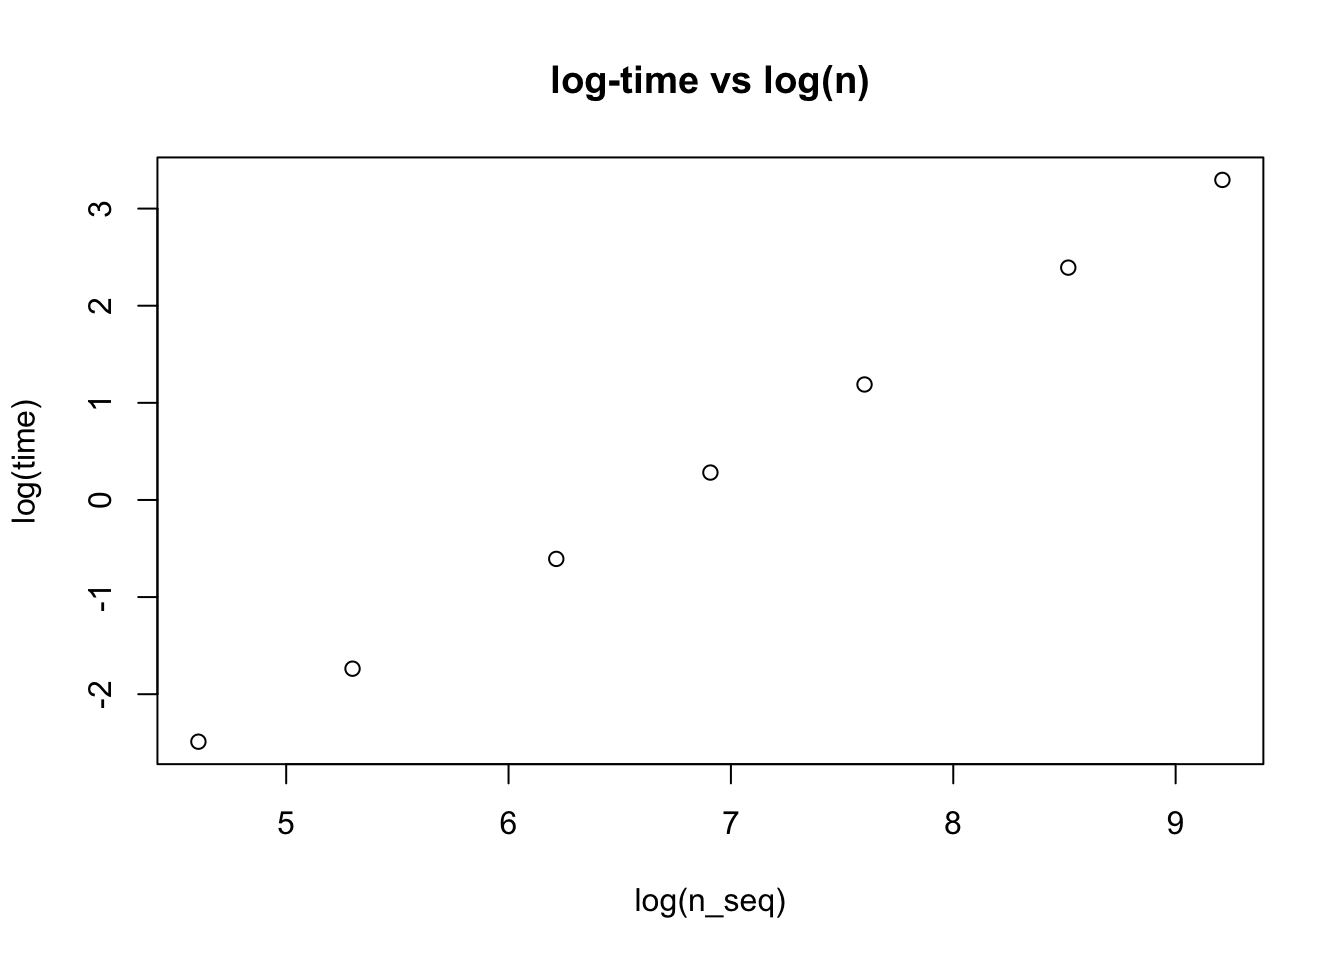
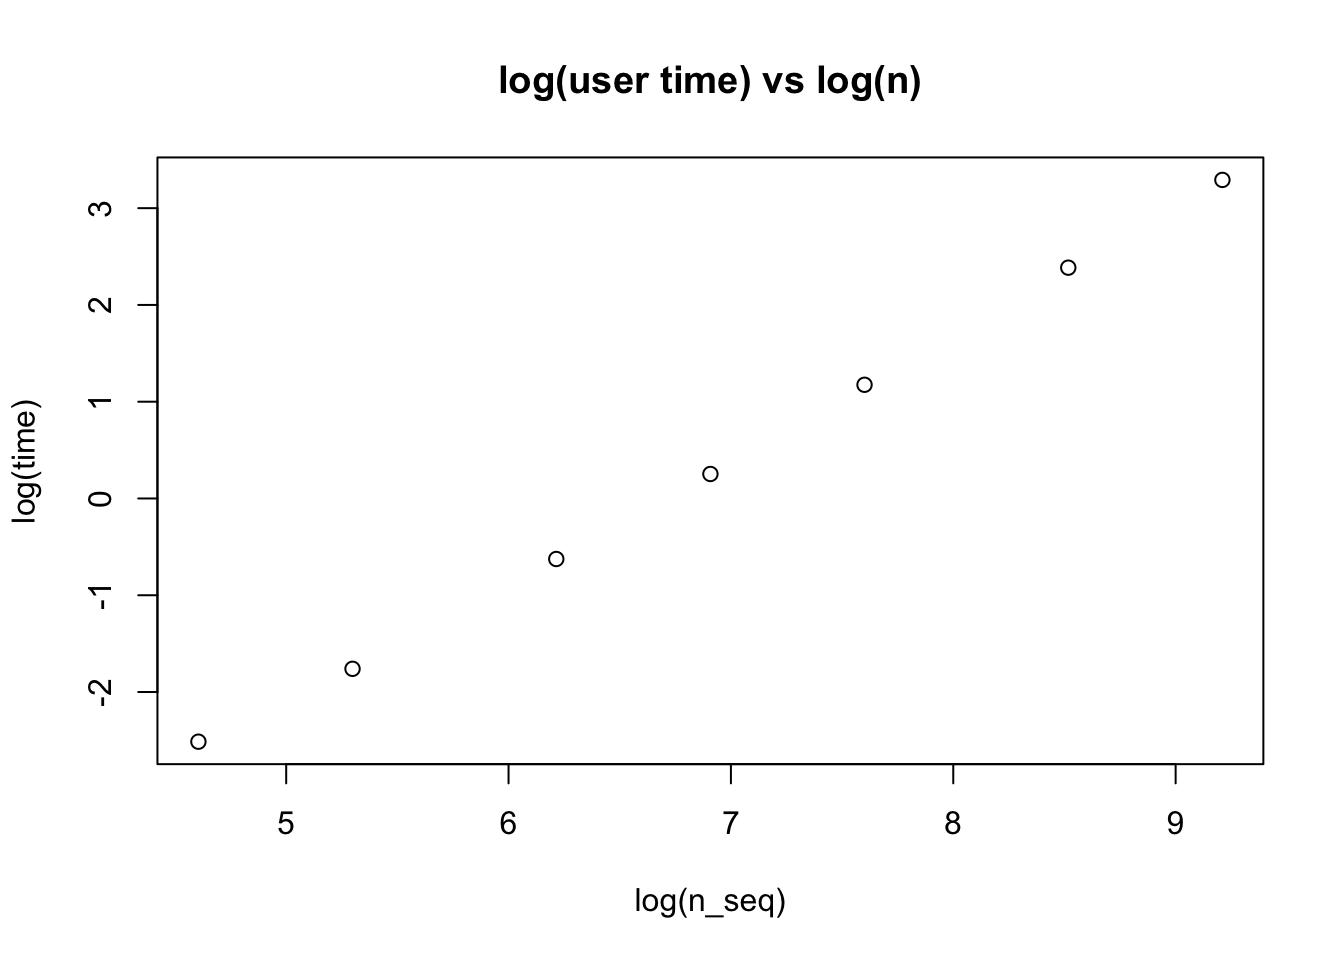
Build site.

Changed region(s): [[0.375, 0.0625, 0.6875, 0.125], [0.0625, 0.5, 0.0938, 0.5312]]

diff --git a/docs/lasso_complexity.html b/docs/lasso_complexity.html
@@ -492,16 +492,16 @@ This reproducible <a href="http://rmarkdown.rstudio.com">R Markdown</a> analysis
 <div class="panel panel-default">
 <div class="panel-heading">
 <p class="panel-title">
-<a data-toggle="collapse" data-parent="#workflowr-checks" href="#strongRepositoryversionstrongahrefhttpsgithubcomstephens999misctreeb4fb97904cda7c1b6950bd341d4abdc33e8c8923targetblankb4fb979a"> <span class="glyphicon glyphicon-ok text-success" aria-hidden="true"></span> <strong>Repository version:</strong> <a href="https://github.com/stephens999/misc/tree/b4fb97904cda7c1b6950bd341d4abdc33e8c8923" target="_blank">b4fb979</a> </a>
+<a data-toggle="collapse" data-parent="#workflowr-checks" href="#strongRepositoryversionstrongahrefhttpsgithubcomstephens999misctree840b89edec8b4ecce820a70504aee9885b2de3d5targetblank840b89ea"> <span class="glyphicon glyphicon-ok text-success" aria-hidden="true"></span> <strong>Repository version:</strong> <a href="https://github.com/stephens999/misc/tree/840b89edec8b4ecce820a70504aee9885b2de3d5" target="_blank">840b89e</a> </a>
 </p>
 </div>
[2 lines of base64/hex data omitted]
 <div class="panel-body">
 <p>
 Great! You are using Git for version control. Tracking code development and connecting the code version to the results is critical for reproducibility.
 </p>
 <p>
-The results in this page were generated with repository version <a href="https://github.com/stephens999/misc/tree/b4fb97904cda7c1b6950bd341d4abdc33e8c8923" target="_blank">b4fb979</a>. See the <em>Past versions</em> tab to see a history of the changes made to the R Markdown and HTML files.
+The results in this page were generated with repository version <a href="https://github.com/stephens999/misc/tree/840b89edec8b4ecce820a70504aee9885b2de3d5" target="_blank">840b89e</a>. See the <em>Past versions</em> tab to see a history of the changes made to the R Markdown and HTML files.
 </p>
 <p>
 Note that you need to be careful to ensure that all relevant files for the analysis have been committed to Git prior to generating the results (you can use <code>wflow_publish</code> or <code>wflow_git_commit</code>). workflowr only checks the R Markdown file, but you know if there are other scripts or data files that it depends on. Below is the status of the Git repository when the results were generated:
@@ -691,6 +691,40 @@ Message
 Rmd
 </td>
 <td>
+<a href="https://github.com/stephens999/misc/blob/840b89edec8b4ecce820a70504aee9885b2de3d5/analysis/lasso_complexity.Rmd" target="_blank">840b89e</a>
+</td>
+<td>
+Matthew Stephens
+</td>
+<td>
+2021-05-26
+</td>
+<td>
+wflow_publish(“lasso_complexity.Rmd”)
+</td>
+</tr>
+<tr>
+<td>
+html
+</td>
+<td>
+<a href="https://rawcdn.githack.com/stephens999/misc/222582b9b60b5f6edb84813e61bc43906eabc520/docs/lasso_complexity.html" target="_blank">222582b</a>
+</td>
+<td>
+Matthew Stephens
+</td>
+<td>
+2021-05-26
+</td>
+<td>
+Build site.
+</td>
+</tr>
+<tr>
+<td>
+Rmd
+</td>
+<td>
 <a href="https://github.com/stephens999/misc/blob/b4fb97904cda7c1b6950bd341d4abdc33e8c8923/analysis/lasso_complexity.Rmd" target="_blank">b4fb979</a>
 </td>
 <td>
@@ -713,6 +747,7 @@ wflow_publish(“lasso_complexity.Rmd”)
 <div id="introduction" class="section level2">
 <h2>Introduction</h2>
 <p>I was suprised to hear that lasso complexity for full solution path is O(np min(n,p)). I always thought it was O(np) per iteration and did not think about how the number of iterations required might increase with n and p. I wanted to do a quick simulation check.</p>
+<p>Empirically the log-log plot for time vs n is approximately linear with slope near 1.25, suggesting a practical scaling of O(n^1.25 p). Of course this is very much just a quick initial assessment.</p>
 <pre class="r"><code>library(&quot;glmnet&quot;)</code></pre>
 <pre><code>Warning: package &#39;glmnet&#39; was built under R version 3.6.2</code></pre>
 <pre><code>Loading required package: Matrix</code></pre>
@@ -732,12 +767,49 @@ for(n in n_seq){
   
 }
 
-plot(log(n_seq),log(time), main = &quot;log-time vs log(n)&quot;)</code></pre>
+plot(log(n_seq),log(time), main = &quot;log(user time) vs log(n)&quot;)</code></pre>
 <p><img src="figure/lasso_complexity.Rmd/unnamed-chunk-1-1.png" width="672" style="display: block; margin: auto;" /></p>
+<p>
+<button type="button" class="btn btn-default btn-xs btn-workflowr btn-workflowr-fig" data-toggle="collapse" data-target="#fig-unnamed-chunk-1-1">
+Past versions of unnamed-chunk-1-1.png
+</button>
+</p>
+<div id="fig-unnamed-chunk-1-1" class="collapse">
+<div class="table-responsive">
+<table class="table table-condensed table-hover">
+<thead>
+<tr>
+<th>
+Version
+</th>
+<th>
+Author
+</th>
+<th>
+Date
+</th>
+</tr>
+</thead>
+<tbody>
+<tr>
+<td>
+<a href="https://github.com/stephens999/misc/blob/222582b9b60b5f6edb84813e61bc43906eabc520/docs/figure/lasso_complexity.Rmd/unnamed-chunk-1-1.png" target="_blank">222582b</a>
+</td>
+<td>
+Matthew Stephens
+</td>
+<td>
+2021-05-26
+</td>
+</tr>
+</tbody>
+</table>
+</div>
+</div>
 <pre class="r"><code>slope = (log(time)[7]-log(time)[1])/(log(n_seq)[7]-log(n_seq)[1])
 print(slope)</code></pre>
 <pre><code>user.self 
- 1.256022 </code></pre>
+ 1.260601 </code></pre>
 <br>
 <p>
 <button type="button" class="btn btn-default btn-workflowr btn-workflowr-sessioninfo" data-toggle="collapse" data-target="#workflowr-sessioninfo" style="display: block;">
